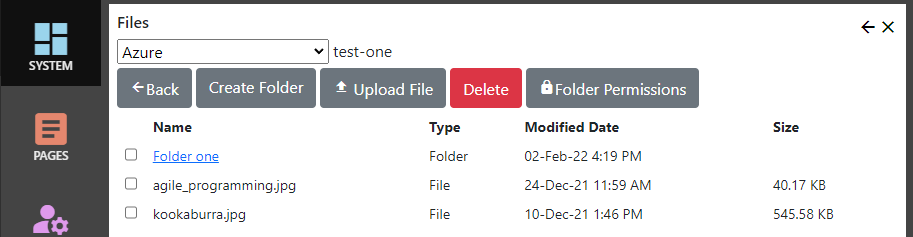
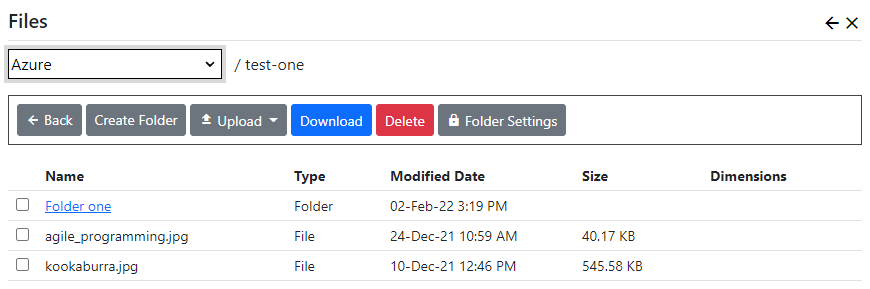
Documentation updates.

diff --git a/Documentation/Content Managers/FilesAndFolders.md b/Documentation/Content Managers/FilesAndFolders.md
@@ -27,14 +27,16 @@ Navigate to a folder by clicking its link in the display.  Navigate back a level
 ## Upload a file
 Click the `Upload File` button to upload a file.  Some file system providers (like [Azure Blob Storage](https://azure.microsoft.com/en-au/services/storage/blobs/)) 
 do not allow you to upload files to the root folder.  If the upload button is disabled, you will need to create a sub-folder and 
-upload your files there.
+upload your files there.  The `Upload` button displays a menu - you can choose to upload a single file, or you can upload a zip file 
+to be un-zipped into the current folder.
 
-> For security reasons, Nucleus restricts the file types that you can use.  You can't upload files
-with an extension that is not in the "allowed" list.  File contents are validated against a list of known "signatures", 
-so your file content must match its extension.  If you use external file management tools to copy a file with a restricted 
-file extension to your file system, Nucleus will not display the file.  If you need to support file types that aren't in the default
-approved list, your system administrator can modify the Nucleus [configuration files](/configuration-files/) which control which file 
-types are allowed.  
+> For security reasons, Nucleus restricts the file types that you can use.  You can't upload files with an extension that 
+is not in the "allowed" list.  File contents are validated against a list of known "signatures", so your file content must match
+its extension.  This applies to single file uploads, and to the files within a zip, if you have chosen the upload option which un-zips 
+the zip file contents automatically (if any files in the zip are invalid, they are skipped, and the rest of the files are un-zipped).  If 
+you use external file management tools to copy a file with a restricted file extension to your file system, Nucleus will not display the 
+file.  If you need to support file types that aren't in the default approved list, your system administrator can modify the Nucleus 
+[configuration files](/configuration-files/) which control which file types are allowed.  
 
 > The default allowed file extensions are web documents (css, htm, html), 
 images (ico, jpg and jpeg, gif, png, bmp, webp, tif and tiff), Microsoft Office documents (doc, docx, pptx, ppt, xls, xlsx, vsd),

diff --git a/Nucleus.Core.Modules/Nucleus.Modules.Search/Documentation/Search.md b/Nucleus.Core.Modules/Nucleus.Modules.Search/Documentation/Search.md
@@ -1,17 +1,18 @@
 ## Search module
-The search module lists provides a user interface for searching your site.  As your users type a search term, a "quick results" display shows 
-the titles of search terms which match your search term.  The user clicks a result to open the page, file or other resource from your site.  
+The search module lists provides a user interface for searching your site.  As your users type a search term, a search suggestions display shows 
+the titles of search terms which match your search term.  Click a search suggestion or click `Search` to display search results.
 
 ![Search Screenshot](Search.png)
 
-Users can click `Search` to display results in full.
-
 ![Search Screenshot](Search-Results.png)
 
-> The search module doesn't work on its own.  You need to install a search provider for the search module to use to get search results.  
+> The search module doesn't work on its own.  You need a search provider for the search module to use to get search results.  There is 
+a basic page search provider built in, and you can install additional search providers for an enhanced search experience.
 
 > Search providers are installed separately.  The Elastic Search extension includes both a search provider and a search index 
-manager to populate the search index.  Some search providers may include only a search provider, or only a search index manager.
+manager to populate the search index.  Some search providers may include only a search provider, or only a search index manager.  The built-in
+page search provider is intended for sites which don't have a need for enhanced search, and only supports searching for pages.  Other 
+search providers can search module-specific content and file contents. 
 
 You can control the presentation of the full results display in the module settings page.
 
